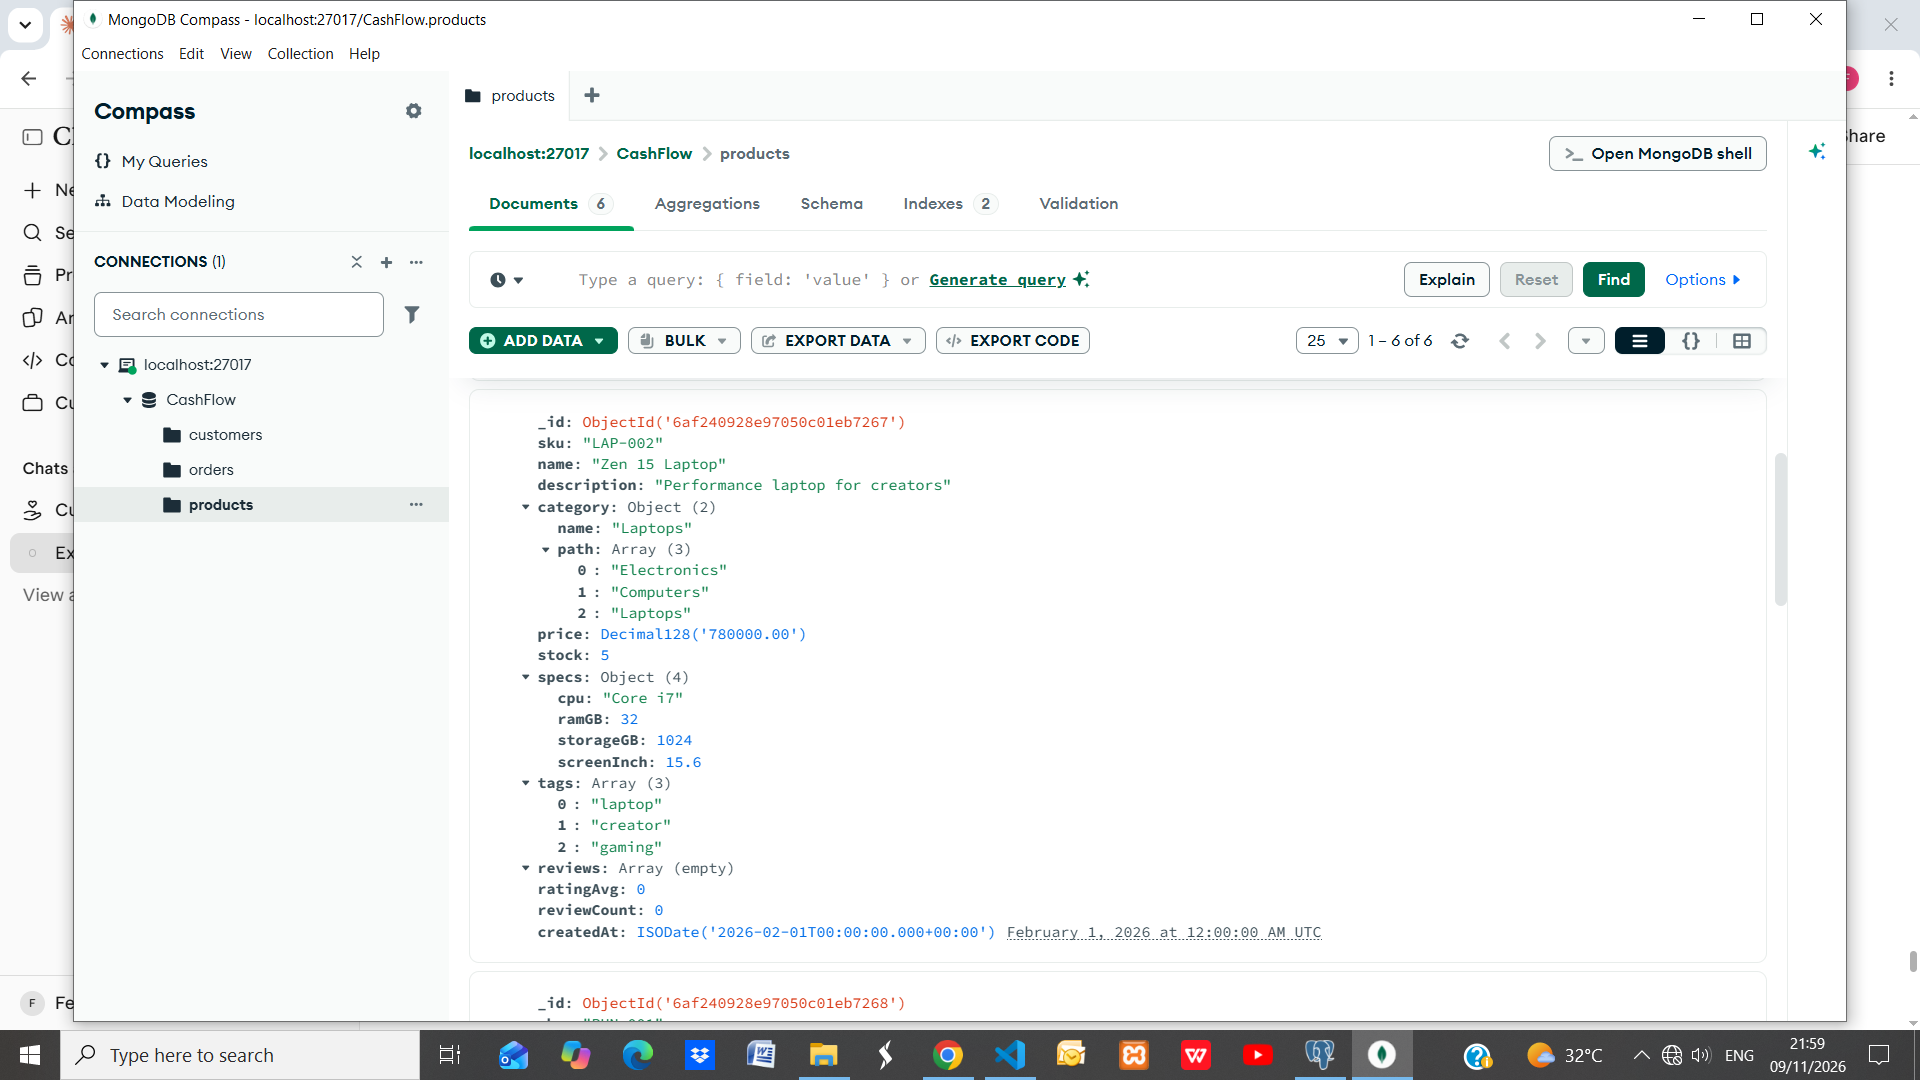
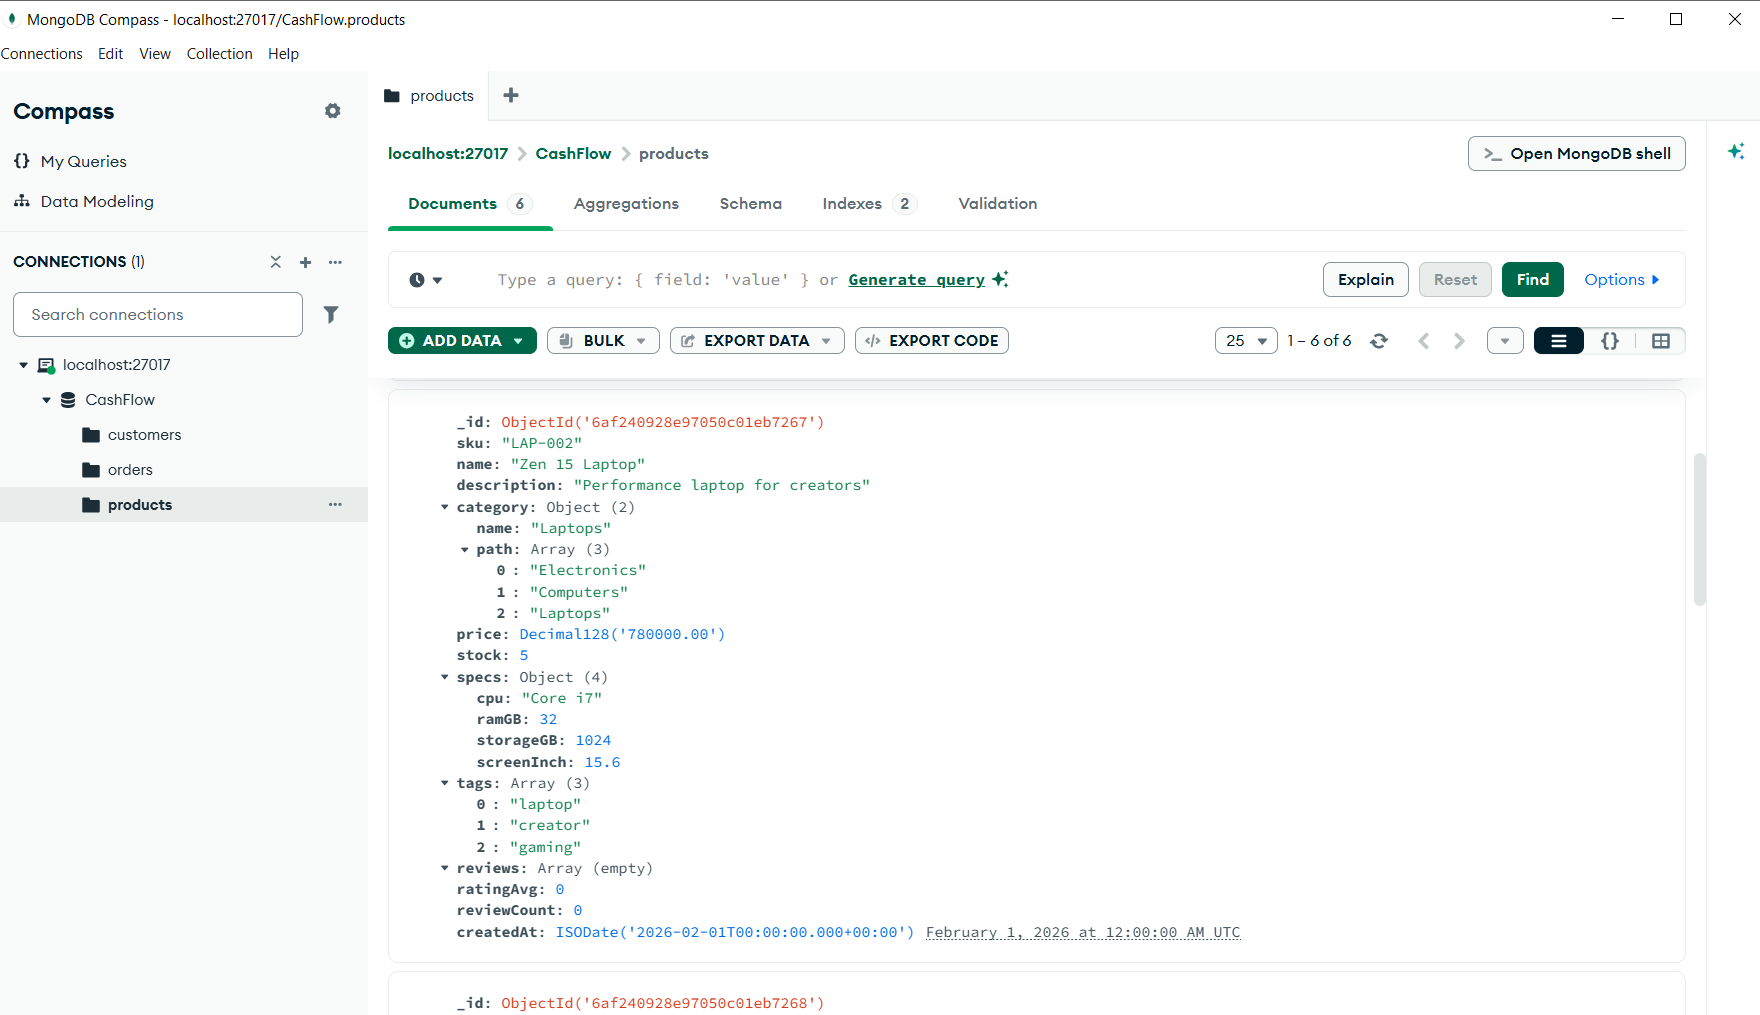
update 4

diff --git a/Portfolio-4_nosql/01_setup_and_insert.js b/Portfolio-4_nosql/01_setup_and_insert.js
@@ -1,7 +1,7 @@
 
 const kh = db.getSiblingDB("CashFlow");
 
-// Start clean so the script can be re-run
+
 ["products", "customers", "orders"].forEach((c) => kh.getCollection(c).drop());
 
 kh.createCollection("products", {
@@ -12,7 +12,7 @@ kh.createCollection("products", {
       properties: {
         sku: { bsonType: "string" },
         name: { bsonType: "string" },
-        price: { bsonType: "decimal", minimum: 0 }, // Decimal128 avoids float rounding on money
+        price: { bsonType: "decimal", minimum: 0 }, 
         stock: { bsonType: "number", minimum: 0 },
         tags: { bsonType: "array", items: { bsonType: "string" } },
       },
@@ -57,7 +57,7 @@ kh.createCollection("orders", {
   },
 });
 
-// Unique indexes (equivalent of UNIQUE constraints in SQL)
+
 kh.products.createIndex({ sku: 1 }, { unique: true });
 kh.customers.createIndex({ email: 1 }, { unique: true });
 kh.orders.createIndex({ orderId: 1 }, { unique: true });

diff --git a/Portfolio-4_nosql/02_queries_and_indexes.js b/Portfolio-4_nosql/02_queries_and_indexes.js
@@ -46,7 +46,7 @@ printjson(
     { sku: "SHO-001", stock: { $gte: 2 } },
     { $inc: { stock: -2 } },
   ),
-); // matchedCount 0 would mean "not enough stock", the document-DB equivalent of a conditional UPDATE
+); 
 
 print("\n--- B2: Add a review and update counters in ONE atomic update ---");
 printjson(

diff --git a/README.md b/README.md
@@ -28,14 +28,34 @@ Database: PostgreSQL. Uses the schema from `Portfolio-1_database-design/schema.s
 ## Query processing in brief
 PostgreSQL parses the query, rewrites it, and the **planner** estimates the cost of alternative plans (sequential scan vs index scan, nested loop vs hash join vs merge join) using table statistics, then the executor runs the cheapest. `EXPLAIN ANALYZE` shows both the estimate and what really happened.
 
-## Performance analysis (write in your own words)
-- **Q1/Q3:** Before the index, PostgreSQL had no shortcut, so it read all 200,000 orders and trashed the ones that didn’t belong to the customer. That’s the big “rows removed by filter” number in the plan. After the index, it jumps straight to that customer’s few orders, like using a book’s index instead of reading every page.
+## Results
 
-- **Q2:** The index sorts rows by status first, then by date within each status. PostgreSQL goes to PENDING, then reads the recent dates next to each other. If the date came first, the pending orders would be scattered all through the index. The rule: put the column you test with = first, and the range column (>=) second.
+| Query | Before: plan type | Before: time (ms) | Index used | After: plan type | After: time (ms) | Improvement |
+|-------|-------------------|-------------------|------------|------------------|------------------|-------------| 
+| Q1 customer orders | Seq Scan | 91.299 | idx_orders_customer | Index Scan | 17.477 | Much Faster |
+| Q2 pending orders | Seq Scan | 199.000 | idx_orders_status_date | Index Scan | 4.487 | Much Faster |
+| Q3 order details join | Seq Scan | 345.919 | idx_orders_customer | Index Scan | 0.181 | Much Faster |
+| Q4 top products | Seq Scan | 681.992 | idx_order_items_product | Index Scan | 73.208 | Much Faster |
+| Q5 monthly revenue | Seq Scan | 234.739 | idx_payments_success_paid_at | Index Scan | 73.567 | Much Faster |
+| Q6 category + price | Seq Scan | 6.398 | idx_products_category_price | Index Scan | 0.210 | Much Faster |
 
-- **Q4:** An index helps when you want a small part of a table. Here PostgreSQL needs nearly all the rows, so reading them in order (a Seq Scan) is faster than jumping back and forth through an index. Most of the time goes on scanning, joining and grouping, which an index can’t speed up.
 
-- **Q5:** A partial index only covers rows that match a condition, here status = 'SUCCESSFUL'. It’s smaller, faster to search and cheaper to keep updated, because failed or pending payments aren’t in it. In our test data every payment is successful, so the saving is small. In a real shop with many failed payments it would matter more.
+## Performance analysis
+- Q1/Q3: Before the index, PostgreSQL had no shortcut, so it read each of the 200,000 orders and removed the ones that didn’t belong to the customer. That’s the big “rows removed by filter” number in the plan. After the index, it moves straight to that customer’s few orders, like using a book’s index instead of reading every page.
+
+- Q2: The index sorts rows by status first, then by date within each status. PostgreSQL goes to PENDING, then reads the recent dates next to each other. If the date came first, the pending orders would be scattered all through the index. The rule: put the column you test with = first, and the range column (>=) second.
+
+- Q4: An index helps when you want a small part of a table. Here PostgreSQL needs nearly all the rows, so reading them in order (a Seq Scan) is faster than jumping back and forth through an index. Most of the time goes on scanning, joining and grouping, which an index can’t speed up.
+
+- Q5: A partial index only covers rows that match a condition, here status = 'SUCCESSFUL'. It’s smaller, faster to search and cheaper to keep updated, because failed or pending payments aren’t in it. In our test data every payment is successful, so the saving is small. In a real shop with many failed payments it would matter more.
+
+   #  TradeOffs
+- Storage: Every index takes disk space. For Example "idx_orders_customer" used 6.168MB
+
+- Slow writes: Every INSERT, DELETE or UPDATE must also update each index on that table. with several indexes on orders, each new order does  extra work.
+
+- The lesson: only index columns your queries actually use. More indexes isnt better.
+
 
 ## Evidence folder contents
 - `execution-plans/` before/after text outputs
@@ -53,10 +73,10 @@ Database: PostgreSQL. Builds on the Portfolio 1 schema and Portfolio 2 seed data
 
 ## Why transactions matter for e-commerce
 Placing an order changes several tables at once (orders, order_items, products stock, payments). These must succeed or fail **together** (ACID):
-- **Atomicity:** all steps happen or none do (Tests 1, 2, 4)
-- **Consistency:** constraints such as `stock_quantity >= 0` are never violated
-- **Isolation:** simultaneous customers do not corrupt each other's work (Demos 1 to 5)
-- **Durability:** committed orders survive a crash (PostgreSQL write-ahead log)
+- Atomicity: all steps happen or none do (Tests 1, 2, 4)
+- Consistency: constraints such as `stock_quantity >= 0` are never violated
+- Isolation: simultaneous customers do not corrupt each other's work (Demos 1 to 5)
+- Durability: committed orders survive a crash (PostgreSQL write-ahead log)
 
 
 # Portfolio 4: NoSQL and Advanced Data Models (CashFlow, MongoDB)
@@ -72,23 +92,12 @@ Same case study as Portfolios 1 to 3. Model type: **document database (MongoDB)*
 
 | Relational (Portfolio 1) | MongoDB collection | Design decision |
 
-| customers + addresses | `customers` | Addresses **embedded** (always read with the customer) |
-| products + categories | `products` | Category **embedded**; reviews **embedded**; attributes vary per product type |
-| orders + order_items + payments + deliveries | `orders` | Items, payment and delivery **embedded** as a purchase-time snapshot |
+| customers + addresses | `customers` | Addresses *embedded* (always read with the customer) |
+| products + categories | `products` | Category *embedded*; reviews *embedded*; attributes vary per product type |
+| orders + order_items + payments + deliveries | `orders` | Items, payment and delivery *embedded* as a purchase-time snapshot |
 
 **Sample product (document):**
 ```json
-{
-  "sku": "LAP-001",
-  "name": "Aero 14 Laptop",
-  "category": { "name": "Laptops", "path": ["Electronics", "Computers", "Laptops"] },
-  "price": "450000.00",
-  "stock": 12,
-  "specs": { "cpu": "Core i5", "ramGB": 16, "storageGB": 512 },
-  "tags": ["laptop", "portable"],
-  "reviews": [ { "user": "cust_001", "rating": 5, "comment": "Fast and light" } ]
-}
-
 
 {
   "_id": "ObjectId('6af240928e97050c01eb7267')",
@@ -124,4 +133,106 @@ Same case study as Portfolios 1 to 3. Model type: **document database (MongoDB)*
 ```
 A pair of sneakers instead has `sizes` and `colors` and no `specs`. Both live in the same collection.
 
+# Portfolio 5: Distributed and Cloud Database Design (CashFlow)
 
+Type: discussion-based design. Nothing here was deployed; sample commands are in `appendix-sample-configs.md` and are illustrative only.
+
+#Scenario and assumptions
+
+CashFlow has outgrown a single database server. These figures are "assumptions" for the exercise:
+
+| Factor         | Assumption                                                                         |
+|                |                                                                                    |
+| Customers      | 20,000 registered                                                                  |
+| Orders         | 1,000/day normally; *20x spike* during a flash sale (about 14 orders/minute)     |
+| Catalogue      | 10,000 products, mostly reads (about 2 reads per order)                            |
+| Users          | Mainly West Africa, some diaspora                                                  |
+| Business needs | Never lose a paid order, never oversell, catalogue always browsable                |
+
+## 2. Proposed architecture (polyglot persistence)
+
+Portfolios 1 to 4 showed that different data has different needs, so the design uses two databases.
+
+```mermaid
+flowchart TB
+    U["Customers (web / mobile)"] --> LB["Load balancer"]
+    LB --> APP["Application servers (multi-AZ)"]
+    APP --> CACHE[("Redis cache: hot products, sessions")]
+    APP --> PGP[("PostgreSQL primary: orders, payments, inventory")]
+    PGP -- "synchronous replication" --> PGS[("Sync standby (AZ-b)")]
+    PGP -- "asynchronous replication" --> PGR[("Read replica (AZ-c): reports")]
+    APP --> MP[("MongoDB primary: product catalogue")]
+    MP -- "replication" --> MS1[("Secondary (AZ-b)")]
+    MP -- "replication" --> MS2[("Secondary (AZ-c)")]
+```
+
+| Data                        | Database    | Reason                                                 |
+| --------------------------- | ----------- | ------------------------------------------------------ |
+| Orders, payments, inventory | PostgreSQL  | Needs full ACID, constraints and locking (Portfolio 3) |
+| Product catalogue, reviews  | MongoDB     | Flexible attributes, read-heavy (Portfolio 4)          |
+| Hot products, sessions      | Redis cache | Takes read load off both databases                     |
+
+## 3. Replication
+
+**PostgreSQL (streaming replication)**
+
+- One primary takes all writes. One "synchronous standby" in another availability zone (AZ) confirms each commit, so a committed order survives losing the primary (RPO close to 0).
+- One "asynchronous read replica" serves reports such as Q4/Q5 from Portfolio 2, so heavy analytics never slow checkout. It may lag by seconds.
+
+**MongoDB (replica set)**
+
+- Three nodes across three AZs: one primary, two secondaries. If the primary fails, the others "elect" a new one automatically, typically within seconds.
+- Writes use `w: "majority"`, so an acknowledged write exists on at least two nodes and cannot be rolled back after a failover.
+
+**Trade-off": synchronous replication adds latency to every commit and can pause writes if the standby is unreachable. This is accepted for payments but would be too strict for catalogue edits.
+
+## 4. Sharding and partitioning
+
+Replication copies data for safety; sharding *splits* data for capacity. It is needed only when one server can no longer hold the data or handle the writes.
+
+**Orders (the fastest-growing data)**
+
+| Shard key option      | Verdict                                                                           |
+|                       |                                                                                   |
+| `orderDate` (ranged)  | "Bad" All new orders hit the newest shard, creating a write hotspot               |
+| `customerId` (hashed) | "Chosen" Writes spread evenly, and "my orders" (Q1 in Portfolio 2) hits one shard |
+| `status`              | "Bad" Very few distinct values, so chunks cannot split                            |
+
+Cost of the choice: admin queries across all customers (revenue reports) must hit every shard, called a scatter-gather query. That is why reports run on a replica or warehouse.
+
+"Catalogue": about 500k documents fits one replica set comfortably, so start unsharded. If it grows, shard on hashed `sku`.
+
+"PostgreSQL": first use "range partitioning of `orders` by month". Old months become cheap to archive and recent partitions stay small and fast. If one primary still cannot cope, shard by `customer_id` (for example with a tool such as Citus, or in the application).
+
+"Inventory hot spots": during a flash sale, thousands of buyers update the same stock row, so locks queue up (the Demo 2 effect from Portfolio 3). Options: a short stock "reservation" in cache, queueing orders, or splitting stock into several counter rows.
+
+
+## Scenario walkthrough: flash sale
+
+1. Traffic rises 20x. Autoscaled app servers absorb it; Redis serves most product-page reads.
+2. Checkout writes go to the PostgreSQL primary with the synchronous standby; stock is reserved atomically (Portfolio 3, Demo 3 style conditional update).
+3. Reports are blocked from the primary and run on the read replica.
+4. If the primary fails mid-sale, the standby is promoted. Orders already confirmed to customers are safe because they were committed on both.
+
+## Trade-offs and limitations
+
+- Two databases means "more complexity": two backup routines, two skill sets, and no cross-database transaction. An order that touches both needs careful design.
+- Sharding is "hard to undo" and a poor shard key is costly, so it is delayed until needed.
+- Synchronous replication and majority writes ""cost latency"" in exchange for safety.
+- Figures in section 1 are assumptions; real capacity planning needs load testing.
+
+
+ ## Analysis
+
+Replicaion is not a substitute for backups because replication copies every single change immediately including mistakes. If anyone mistakenly deletes the orders table for example or a bug corrupts any data, the copies remove or corrupt it too. A backup is like a saved picture from an earlier point in time. So you can return to the point before the mistake. Replication protects you when a server breaks, and backups protect you when the data is wrong. You need both.
+
+When it comes "orderDate" it makes for a poor shard key for orders so "customerId" is used instead this is because new order's always have the current date at the time of the order so every order lands on the same shard. That shard gets overloaded while the others sit idle, which defeats the purpose of sharding. With a hashed customerId, orders spread across all shards evenly, and one customer's orders stays together, so showing of orders is fast.
+
+
+Strong consistency: payment and stock updates. If two customers buy the last item at once, or a payment is recorded twice, the data would be wrong and money or stock would be lost. Everyone must see the same correct value immediately, so it’s better to refuse or delay a request than to give a wrong answer.
+
+Eventual consistency: product reviews or the average rating. If a new review takes a few seconds to appear, or the rating is briefly out of date, nobody is harmed. Allowing this makes the page faster and keeps it working even if a server is unreachable.
+
+When managed services, and when self-managed? Stay on managed services where a cloud provider runs the database for you and when the business is small or mid-sized and has no or doesn't need specialist database team. The provider handles backups, failover, updates and monitoring, which reduces time wastage or saves time and reduces errors. You pay more per unit, but you avoid hiring staff and getting on-call emergencies wrong.
+
+Migrate to self-managed when the data has become very large and the bill becomes a major cost, when you need special settings the provider doesn’t allow, or when rules require data to stay in your own environment. You also need engineers who can run it safely.

diff --git a/Portfolio-5_distributed-cloud/appendix-sample-configs.md b/Portfolio-5_distributed-cloud/appendix-sample-configs.md
@@ -1,0 +1,75 @@
+# Appendix: Illustrative Configuration Samples
+
+> **Status: design illustrations, not tested deployments.** Hostnames are placeholders. Check the official documentation for your versions before using any of this.
+
+## A. MongoDB replica set (3 nodes)
+
+```javascript
+rs.initiate({
+  _id: "CashFlow-rs",
+  members: [
+    { _id: 0, host: "mongo-az-a.internal:27017", priority: 2 },
+    { _id: 1, host: "mongo-az-b.internal:27017", priority: 1 },
+    { _id: 2, host: "mongo-az-c.internal:27017", priority: 1 },
+  ],
+});
+rs.status(); 
+```
+
+## B. Safe writes and read routing from the application
+
+```javascript
+
+db.orders.insertOne(orderDoc, { writeConcern: { w: "majority", j: true } });
+
+db.products.find({ sku: "LAP-001" }).readPref("secondaryPreferred");
+
+db.orders.find({ orderId: 1005 }).readPref("primary");
+```
+
+## C. Sharding orders by hashed customerId
+
+```javascript
+sh.enableSharding("CashFlow");
+db.orders.createIndex({ customerId: "hashed" });
+sh.shardCollection("CashFlow.orders", { customerId: "hashed" });
+sh.status(); 
+```
+
+## D. PostgreSQL streaming replication (key settings only)
+
+```ini
+
+wal_level = replica
+max_wal_senders = 5
+synchronous_commit = on
+synchronous_standby_names = 'FIRST 1 (standby_az_b)'   # commit waits for this standby
+```
+
+```sql
+SELECT application_name, state, sync_state, replay_lag FROM pg_stat_replication;
+```
+
+## E. Range partitioning of orders by month (PostgreSQL)
+
+```sql
+
+CREATE TABLE orders_p (
+    order_id    BIGINT GENERATED ALWAYS AS IDENTITY,
+    customer_id INT NOT NULL,
+    order_date  TIMESTAMP NOT NULL,
+    status      VARCHAR(20) NOT NULL,
+    total_amount NUMERIC(12,2) NOT NULL,
+    PRIMARY KEY (order_id, order_date)
+) PARTITION BY RANGE (order_date);
+
+CREATE TABLE orders_2026_11 PARTITION OF orders_p
+    FOR VALUES FROM ('2026-11-01') TO ('2026-12-01');
+CREATE TABLE orders_2026_12 PARTITION OF orders_p
+    FOR VALUES FROM ('2026-12-01') TO ('2027-01-01');
+
+
+EXPLAIN SELECT * FROM orders_p WHERE order_date >= '2026-11-15' AND order_date < '2026-11-20';
+```
+
+Note the design consequence: the partition column joins the primary key, so referencing `orders` by `order_id` alone from `order_items` would need a redesign. This is a real cost to mention in your analysis.

diff --git a/Portfolio-3_transaction-concurrency/02_concurrency_demos.md b/Portfolio-3_transaction-concurrency/02_concurrency_demos.md
@@ -43,7 +43,7 @@ Two customers buy the last units at the same moment. The app reads stock, calcul
 UPDATE products
 SET stock_quantity = stock_quantity - 4
 WHERE sku = 'SKU-TEST-001' AND stock_quantity >= 4;
--- "UPDATE 0" means not enough stock; the app then rolls back / informs the customer
+
 ```
 Try it in both sessions with the Demo 1 timing. Row-level locking makes the second statement wait, then re-check the condition against the new committed value.
 
